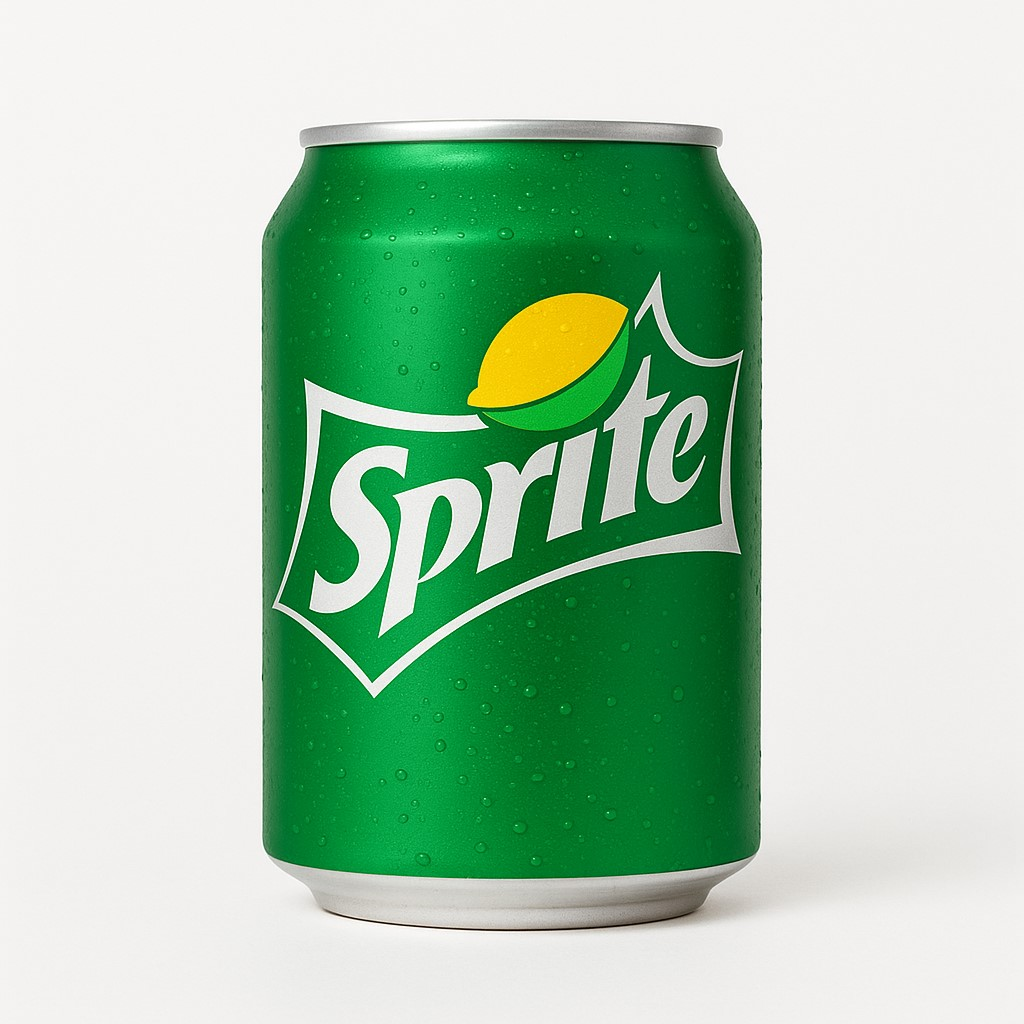
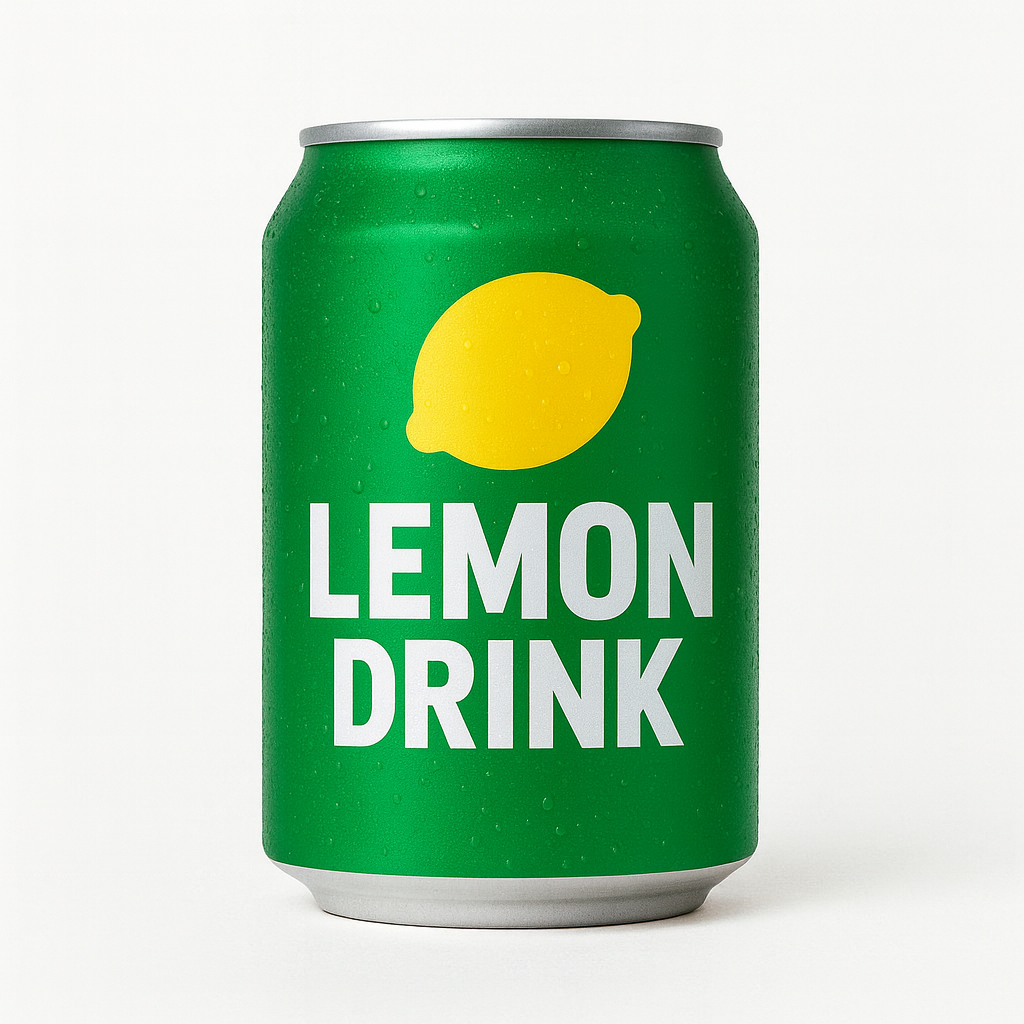
feat: zaktualizowano opisy menu i grafiki napojów

diff --git a/backend/src/main/java/pl/restaurant/restaurantbackend/RestaurantBackendApplication.java b/backend/src/main/java/pl/restaurant/restaurantbackend/RestaurantBackendApplication.java
@@ -40,17 +40,17 @@ public class RestaurantBackendApplication {
 		return args -> {
 			List<MenuSeed> seeds = List.of(
 					new MenuSeed("Lemoniada", "Lemoniada cytrynowa", "Lemonade", "Refreshing lemon drink.", 8.00, "napoje", "/uploads/bb16f6f9-aeb3-4d70-9946-780d2d0c488a.jpg"),
-					new MenuSeed("Coca-Cola", "Coca cola mala", "Coca-Cola", "Small Coke.", 7.00, "napoje", "/uploads/5ff3cd3e-2718-43c1-9d81-29bcea62189c.jpg"),
+					new MenuSeed("Cola", "Klasyczny napój cola.", "Cola", "Classic cola drink.", 7.00, "napoje", "/uploads/5ff3cd3e-2718-43c1-9d81-29bcea62189c.jpg"),
 					new MenuSeed("Frytki", "Frytki z sola", "Fries", "Salted fries.", 9.00, "dodatki", "/uploads/5644a5c3-e463-4de3-8446-69d97a190daf.jpg"),
 					new MenuSeed("Burger Wolowy", "Burger z wolowina", "Beef Burger", "Juicy beef burger.", 19.00, "burgery", "/uploads/b50cdc8f-72aa-44f5-a26f-3819bbb69d8a.jpg"),
-					new MenuSeed("Burger Wolowy + Coca-Cola + Frytki", "Zestaw", "Beef Burger + Coca-Cola + Fries", "Combo meal.", 28.00, "zestawy", "/uploads/67a278a2-b730-4105-832b-b420b92a21d1.jpg"),
+					new MenuSeed("Burger Wolowy + Cola + Frytki", "Zestaw Burger Wolowy + Cola + Frytki", "Beef Burger + Cola + Fries", "Combo meal.", 28.00, "zestawy", "/uploads/67a278a2-b730-4105-832b-b420b92a21d1.jpg"),
 					new MenuSeed("Wrap Kurczak", "Wrap z kurczakiem", "Chicken Wrap", "Wrap filled with chicken.", 17.00, "wrapy", "/uploads/74559695-ab8c-4db0-a7da-c3b4004f0dfb.jpg"),
 					new MenuSeed("Sos do frytek", "Sos do frytek", "Fries Dip", "Dip served with fries.", 2.00, "dodatki", "/uploads/999c4842-2f56-4c4d-a73c-3ec4e08f19c5.jpg"),
 					new MenuSeed("Burger BBQ", "Burger BBQ", "BBQ Burger", "Burger with BBQ sauce.", 21.00, "burgery", "/uploads/59183c1b-4c61-4e70-a70d-2591b55ba491.jpg"),
 					new MenuSeed("Burger Vege", "Burger vege", "Veggie Burger", "Plant-based burger.", 18.00, "burgery", "/uploads/312b0359-85a3-4605-99cf-c83a6af55799.jpg"),
 					new MenuSeed("Wrap Vege", "Wrap vege", "Veggie Wrap", "Wrap with veggie filling.", 16.00, "wrapy", "/uploads/d714437d-5f38-4356-bf2f-31c6113cd15b.jpg"),
-					new MenuSeed("Wrap + Sprite + Frytki", "Wrap + Sprite + Frytki zestaw", "Wrap + Sprite + Fries", "Wrap combo with drink and fries.", 27.00, "zestawy", "/uploads/06fce736-28e0-4fd9-9881-34d3cce13b3f.jpg"),
-					new MenuSeed("Sprite", "Sprite", "Sprite", "Sprite soda.", 7.00, "napoje", "/uploads/14ec6d21-3f2e-45b7-80e2-4374cae71b4c.jpg"),
+					new MenuSeed("Wrap + Lemon Drink + Frytki", "Wrap + Lemon Drink + Frytki zestaw", "Wrap + Lemon Drink + Fries", "Wrap combo with drink and fries.", 27.00, "zestawy", "/uploads/06fce736-28e0-4fd9-9881-34d3cce13b3f.jpg"),
+					new MenuSeed("Lemon Drink", "Orzeźwiający napój cytrynowy.", "Lemon Drink", "Lemon-flavoured soda.", 7.00, "napoje", "/uploads/14ec6d21-3f2e-45b7-80e2-4374cae71b4c.jpg"),
 					new MenuSeed("Woda", "", "Water", "Still water.", 5.00, "napoje", "/uploads/13b31389-726b-428a-a8c3-a913c822a9af.jpg")
 			);
 
